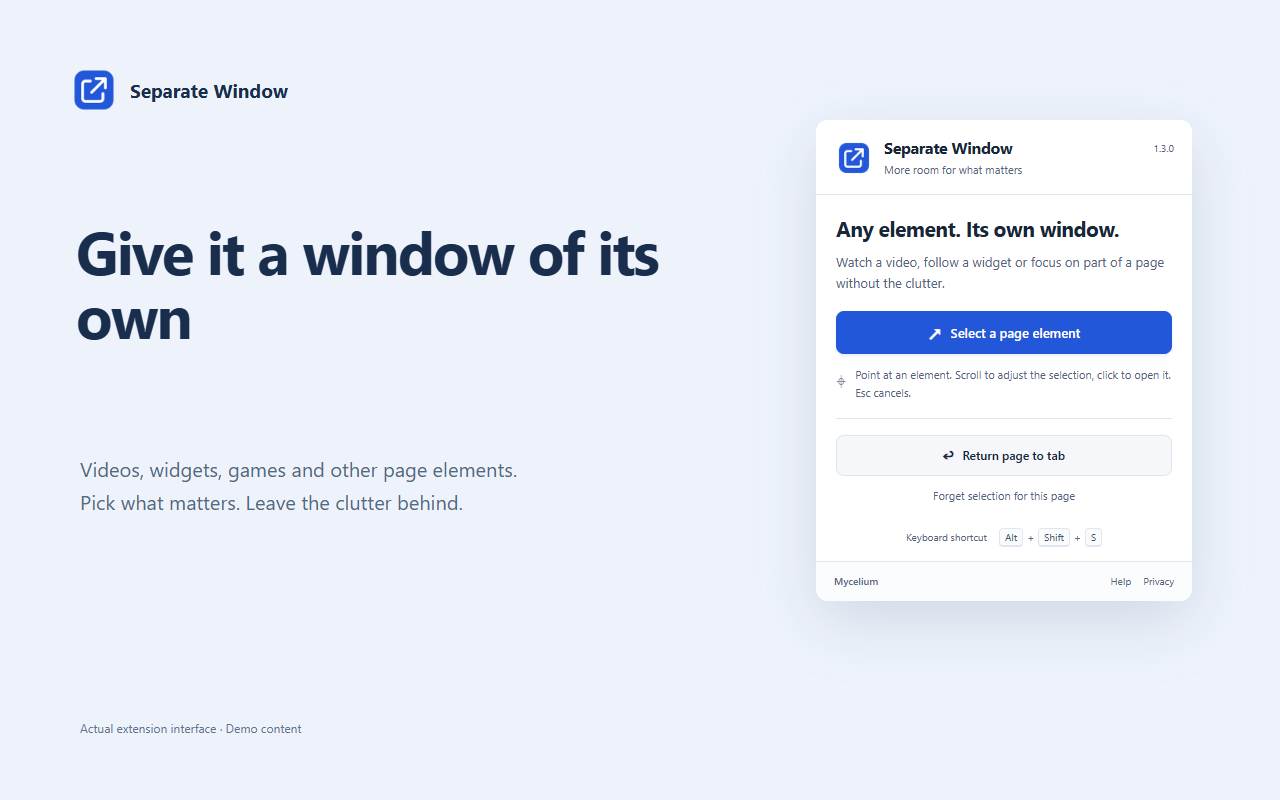
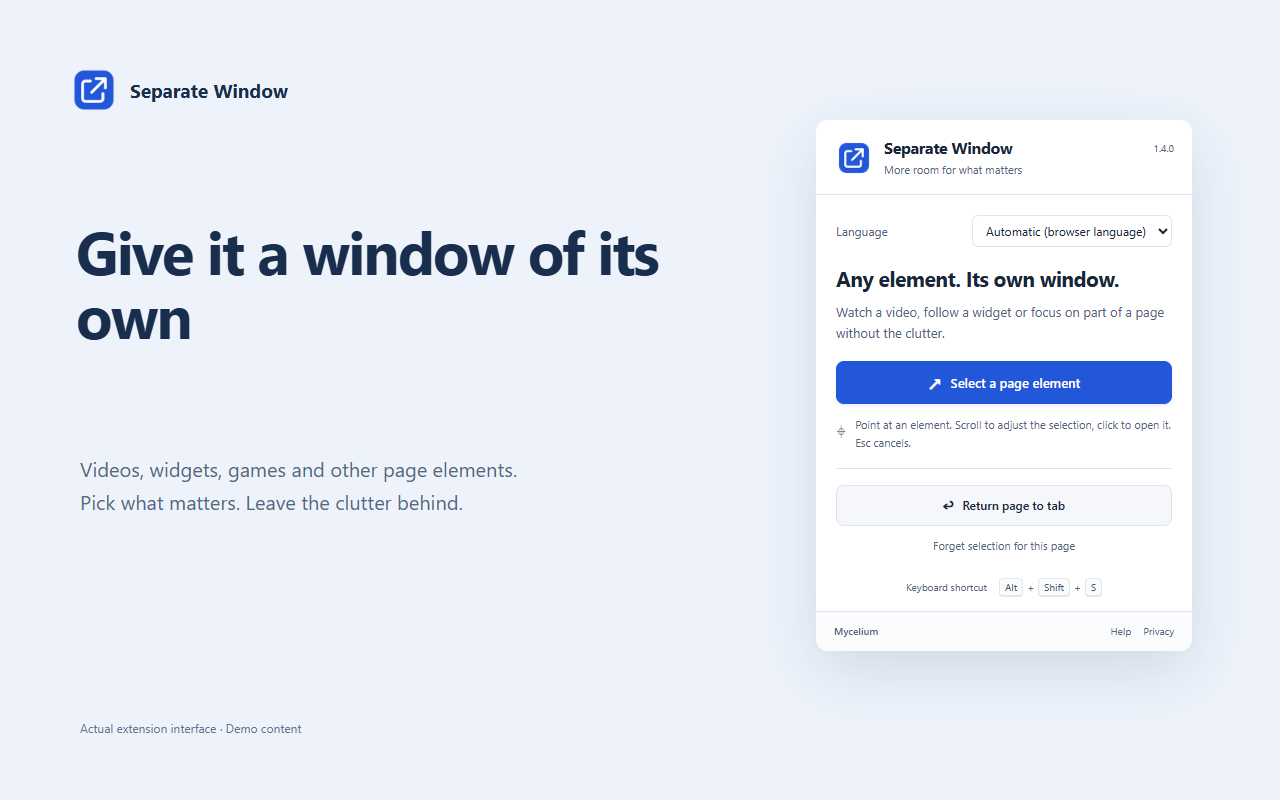
feat: add persistent interface language selection

Changed region(s): [[0.6562, 0.2812, 0.9375, 0.6875], [0.625, 0.7188, 0.9375, 0.8125]]

diff --git a/docs/privacy.html b/docs/privacy.html
@@ -3,7 +3,7 @@
 <head><meta charset="utf-8"><meta name="viewport" content="width=device-width,initial-scale=1"><title>Separate Window — Privacy policy</title><link rel="icon" href="favicon.ico"><style>
 :root{color-scheme:light}*{box-sizing:border-box}body{margin:0;background:#f3f6fb;color:#24354c;font:16px/1.7 "Segoe UI",system-ui,sans-serif}main{max-width:880px;margin:auto;padding:48px 24px 80px}header{display:flex;gap:14px;align-items:center}header img{width:56px;height:56px}h1{margin:0;font-size:30px;line-height:1.2}h2{font-size:21px;line-height:1.3;margin:28px 0 10px}h3{font-size:17px;margin:24px 0 8px}nav{display:flex;gap:20px;margin:28px 0}a{color:#2357d9}article{padding:12px 28px 28px;background:white;border:1px solid #dde5f0;border-radius:12px;margin-bottom:28px}.meta{font-size:14px;color:#63758f}p{margin:10px 0}a:focus-visible{outline:3px solid #8fafff;outline-offset:3px}@media(max-width:600px){main{padding:24px 16px}article{padding:8px 20px 24px}h1{font-size:25px}}
 </style></head>
-<body><main><header><img src="store/assets/icon128.png" alt=""><h1>Separate Window</h1></header><p class="meta">Политика конфиденциальности / Privacy policy · 26 October 2026 · Version 1.3.2</p><nav aria-label="Language"><a href="#ru">Русский</a><a href="#en">English</a></nav>
+<body><main><header><img src="store/assets/icon128.png" alt=""><h1>Separate Window</h1></header><p class="meta">Политика конфиденциальности / Privacy policy · 26 October 2026 · Version 1.4.0</p><nav aria-label="Language"><a href="#ru">Русский</a><a href="#en">English</a></nav>
 <article id="ru" lang="ru">
 <h2>Политика конфиденциальности</h2>
 <p>Издатель расширения — <strong>Mycelium</strong>. Поддержка и вопросы о данных: <a href="mailto:qobuz43@gmail.com">qobuz43@gmail.com</a>. Эта политика относится к расширению Separate Window.</p>
@@ -20,6 +20,7 @@
 <p>Команда «Забыть выбор для этой страницы» удаляет сохранённый селектор и размеры для текущего адреса. Удаление расширения удаляет его браузерное хранилище. Временное состояние переноса очищается после возврата или восстановления вкладки и при завершении браузерной сессии. Сохранённые PNG и созданные закладки остаются под управлением пользователя и удаляются отдельно.</p>
 <p>Ссылка на блок содержит адрес исходной страницы и CSS-селектор. Делитесь такой ссылкой только если можно делиться исходным адресом страницы.</p>
 <p>По кнопке «Поверх всех» расширение находит готовое видео в выбранном блоке, в том числе во вложенных плеерах, и включает встроенный режим Chrome «картинка в картинке». Путь к фрейму, размеры видео и доступность воспроизведения обрабатываются только в памяти. Видеопоток не записывается и не передаётся расширению или разработчику.</p>
+<p>Выбранный язык интерфейса сохраняется локально в браузере и не передаётся разработчику.</p>
 <h3>Использование разрешений</h3>
 <p>Доступ к сайтам нужен для выбора и изоляции элементов, повторного открытия сохранённого блока и снимков. Доступ к вкладкам нужен для переноса, определения последнего адреса и восстановления страницы. Хранилище сохраняет перечисленные настройки. Scripting подключает только упакованный код к уже открытым страницам. Контекстное меню запускает выбор. Доступ к закладкам используется для поиска или создания папки «Separate windows» и добавления записи по команде пользователя.</p>
 <h3>Изменения и контакт</h3>
@@ -41,6 +42,7 @@
 <p>“Forget selection for this page” removes the saved selector and geometry for the current URL. Uninstalling the extension removes its browser storage. Temporary transfer state is cleared after returning or recovering the tab and at the end of the browser session. Saved PNG files and created bookmarks remain under the user's control and are deleted separately.</p>
 <p>An element link includes the source page URL and its CSS selector. Share it only when it is appropriate to share that page URL.</p>
 <p>On an explicit “Always on top” click, the extension finds a ready video within the selected element, including nested players, and toggles Chrome's built-in picture-in-picture mode. Frame paths, video dimensions and playback availability are processed only in memory. The video stream is not recorded or transferred to the extension or developer.</p>
+<p>Your interface language preference is stored locally in the browser and is not sent to the developer.</p>
 <h3>Permissions</h3>
 <p>Website access enables selection, isolation, saved-element reopening and screenshots. Tab access enables moving tabs, tracking the latest URL and recovering the page. Storage holds the settings described above. Scripting injects packaged code into existing pages. The context menu starts selection. Bookmark access finds or creates the “Separate windows” folder and adds a bookmark at the user's request.</p>
 <h3>Changes and contact</h3>

diff --git a/i18n.js b/i18n.js
@@ -1,0 +1,47 @@
+globalThis.SWI18n ??= (() => {
+  let messages = {}, language, preference = 'auto', pending, generation = 0;
+  const listeners = new Set(), dictionaries = new Map();
+  const content = typeof location !== 'undefined' && location.protocol !== 'chrome-extension:';
+  function t(key, substitutions) {
+    const values = Array.isArray(substitutions) ? substitutions : [substitutions ?? ''];
+    return (messages[key]?.message ?? chrome.i18n.getMessage(key)).replace(/\$(\d+)/g, (_, n) => values[Number(n)-1] ?? '');
+  }
+  async function load(request) {
+    let next;
+    if (content) {
+      const response = await chrome.runtime.sendMessage({type:'translations'});
+      if (!response?.ok) throw new Error(response?.error || chrome.i18n.getMessage('unavailable'));
+      next = response;
+    } else {
+      const saved = (await chrome.storage.local.get('language')).language;
+      const pref = ['ru','en'].includes(saved) ? saved : 'auto';
+      const lang = pref === 'auto' ? (chrome.i18n.getUILanguage().startsWith('ru') ? 'ru' : 'en') : pref;
+      if (!dictionaries.has(lang)) dictionaries.set(lang, fetch(chrome.runtime.getURL(`_locales/${lang}/messages.json`)).then(response => {
+        if (!response.ok) throw new Error('Unable to load translations');
+        return response.json();
+      }));
+      next = {language:lang, preference:pref, messages:await dictionaries.get(lang)};
+    }
+    if (request !== generation) return pending;
+    const old = messages, changed = language !== next.language || preference !== next.preference;
+    messages = next.messages; language = next.language; preference = next.preference;
+    if (changed) for (const listener of listeners) listener(old);
+  }
+  function reload() {return pending = load(++generation);}
+  function translate(text, old) {
+    for (const [key, value] of Object.entries(old)) {
+      if (text === value.message) return t(key);
+      if (value.message.includes('$1')) {
+        const [before, after] = value.message.split('$1');
+        if (text.startsWith(before) && text.endsWith(after)) return t(key, text.slice(before.length, after ? -after.length : undefined));
+      }
+    }
+    return text;
+  }
+  chrome.storage.onChanged.addListener((changes, area) => {
+    if (area === 'local' && changes.language) reload().catch(console.error);
+  });
+  reload().catch(console.error);
+  return {t, translate, reload, onChange:listener => listeners.add(listener), get ready(){return pending;},
+    get language(){return language;}, get preference(){return preference;}, get messages(){return messages;}};
+})();

diff --git a/content.js b/content.js
@@ -1,7 +1,19 @@
 (() => {
-  const t = (key, substitutions) => chrome.i18n.getMessage(key, substitutions);
+  const t = (key, substitutions) => SWI18n.t(key, substitutions);
   if (globalThis.__separateWindowLocal) return;
   globalThis.__separateWindowLocal = true;
+  const roots = new Set();
+  SWI18n.onChange(old => {
+    for (const root of roots) {
+      if (!root.host.isConnected) {roots.delete(root); continue;}
+      root.host.lang = SWI18n.language;
+      const walker = document.createTreeWalker(root, NodeFilter.SHOW_TEXT);
+      for (let node; (node = walker.nextNode());) node.textContent = SWI18n.translate(node.textContent, old);
+      for (const element of root.querySelectorAll('*')) for (const attr of ['title','aria-label','placeholder']) {
+        if (element.hasAttribute(attr)) element.setAttribute(attr, SWI18n.translate(element.getAttribute(attr), old));
+      }
+    }
+  });
   const token = `sw-${crypto.randomUUID().replaceAll('-', '')}`;
   const targetAttr = `data-${token}-target`;
   const ancestorAttr = `data-${token}-ancestor`;
@@ -20,6 +32,8 @@
     host.setAttribute(`data-${token}-ui`, '');
     host.style.cssText = 'all:initial!important;position:fixed!important;inset:0!important;z-index:2147483647!important;pointer-events:none!important;visibility:visible!important;display:block!important;';
     const root = host.attachShadow({mode: 'closed'});
+    for (const existing of roots) if (!existing.host.isConnected) roots.delete(existing);
+    host.lang = SWI18n.language; roots.add(root);
     const style = document.createElement('style');
     style.textContent = `
       :host{color-scheme:dark}*{box-sizing:border-box}button,input{font:13px system-ui,sans-serif}
@@ -317,7 +331,7 @@
     if (sender.id !== chrome.runtime.id) return;
     switch (message.type) {
       case 'select':
-        Promise.resolve(startPicker()).then(() => respond({ok: true}), error => respond({ok: false, error: error.message}));
+        SWI18n.ready.then(startPicker).then(() => respond({ok: true}), error => respond({ok: false, error: error.message}));
         return true;
       case 'uncrop': unCrop(false); break;
       case 'pip-state': setPinState(message.active); break;
@@ -363,5 +377,5 @@
   window.addEventListener('hashchange', () => {
     if (!selected && location.hash.startsWith('#__sw_local=')) init().catch(error => notify(error.message));
   });
-  init().catch(error => notify(error.message));
+  SWI18n.ready.then(init).catch(error => notify(error.message));
 })();

diff --git a/background.js b/background.js
@@ -1,5 +1,5 @@
-importScripts('media.js');
-const t = (key, substitutions) => chrome.i18n.getMessage(key, substitutions);
+importScripts('i18n.js', 'media.js');
+const t = (key, substitutions) => SWI18n.t(key, substitutions);
 const sessionKey = id => `window:${id}`;
 const selectionKey = url => `selection:${url}`;
 const supported = url => /^(https?|file):/.test(url || '');
@@ -9,7 +9,7 @@ async function tell(tabId, type) {
   catch {
     const tab = await chrome.tabs.get(tabId);
     if (!supported(tab.url)) throw new Error(t('restrictedPage'));
-    await chrome.scripting.executeScript({target: {tabId}, files: ['content.js']});
+    await chrome.scripting.executeScript({target: {tabId}, files: ['i18n.js', 'content.js']});
     return chrome.tabs.sendMessage(tabId, {type});
   }
 }
@@ -186,17 +186,21 @@ async function handle(message, sender) {
 }
 
 chrome.runtime.onMessage.addListener((message, sender, respond) => {
-  handle(message, sender).then(result => respond({ok: true, ...result}), error => respond({ok: false, error: error.message}));
+  const task = message.type === 'translations' ? SWI18n.reload().then(() => ({language:SWI18n.language, preference:SWI18n.preference, messages:SWI18n.messages})) : SWI18n.ready.then(() => handle(message, sender));
+  task.then(result => respond({ok: true, ...result}), error => respond({ok: false, error: error.message}));
   return true;
 });
-chrome.runtime.onInstalled.addListener(() => {
+chrome.runtime.onInstalled.addListener(async () => {
+  await SWI18n.ready;
   chrome.contextMenus.removeAll(() => chrome.contextMenus.create({id: 'select', title: t('contextMenu'), contexts: ['all'], documentUrlPatterns: ['http://*/*', 'https://*/*', 'file:///*']}));
 });
 chrome.contextMenus.onClicked.addListener((info, tab) => {
   if (info.menuItemId === 'select') tell(tab.id, 'select').catch(console.error);
 });
+SWI18n.onChange(() => chrome.contextMenus.update('select', {title:t('contextMenu')}).catch(() => {}));
 chrome.commands.onCommand.addListener(async command => {
   if (command !== 'select') return;
+  await SWI18n.ready;
   const [tab] = await chrome.tabs.query({active: true, lastFocusedWindow: true});
   if (tab) handle({type: 'select', tabId: tab.id}, {url: chrome.runtime.getURL('popup.html')}).catch(console.error);
 });

diff --git a/popup.js b/popup.js
@@ -1,15 +1,30 @@
-document.documentElement.lang = chrome.i18n.getUILanguage().startsWith('ru') ? 'ru' : 'en';
-for (const element of document.querySelectorAll('[data-i18n]')) element.textContent = chrome.i18n.getMessage(element.dataset.i18n);
-for (const element of document.querySelectorAll('[data-i18n-label]')) element.setAttribute('aria-label', chrome.i18n.getMessage(element.dataset.i18nLabel));
-document.querySelector('#version').textContent = chrome.runtime.getManifest().version;
+function render() {
+  document.documentElement.lang = SWI18n.language;
+  for (const element of document.querySelectorAll('[data-i18n]')) element.textContent = SWI18n.t(element.dataset.i18n);
+  for (const element of document.querySelectorAll('[data-i18n-label]')) element.setAttribute('aria-label', SWI18n.t(element.dataset.i18nLabel));
+  document.querySelector('#language').value = SWI18n.preference;
+  document.querySelector('#version').textContent = chrome.runtime.getManifest().version;
+}
+SWI18n.onChange(old => {
+  render(); const status = document.querySelector('#status'); status.textContent = SWI18n.translate(status.textContent, old);
+});
+SWI18n.ready.then(render);
+document.querySelector('#language').addEventListener('change', async event => {
+  const select = event.target; select.disabled = true;
+  try {await chrome.storage.local.set({language:select.value}); await SWI18n.reload(); render();}
+  catch (error) {document.querySelector('#status').textContent = error.message;}
+  finally {select.disabled = false;}
+});
 
 for (const button of document.querySelectorAll('button')) {
   button.addEventListener('click', async () => {
     button.disabled = true;
     try {
+      await SWI18n.ready;
       const [tab] = await chrome.tabs.query({active: true, currentWindow: true});
+      if (!tab) throw new Error(SWI18n.t('noActiveTab'));
       const result = await chrome.runtime.sendMessage({type: button.id, tabId: tab.id});
-      if (!result?.ok) throw new Error(result?.error || chrome.i18n.getMessage('commandFailed'));
+      if (!result?.ok) throw new Error(result?.error || SWI18n.t('commandFailed'));
       window.close();
     } catch (error) {
       document.querySelector('#status').textContent = error.message;

diff --git a/popup.html b/popup.html
@@ -14,6 +14,7 @@
     <span class="version" id="version"></span>
   </header>
   <main>
+    <div class="language"><label for="language" data-i18n="languageLabel">Язык</label><select id="language"><option value="auto" data-i18n="languageAuto">Автоматически</option><option value="ru">Русский</option><option value="en">English</option></select></div>
     <section class="selection" aria-labelledby="selection-title">
       <h2 id="selection-title" data-i18n="popupHeading">Любой блок — отдельное окно</h2>
       <p data-i18n="popupIntro">Смотрите видео, следите за виджетом или работайте с частью страницы без лишнего вокруг.</p>
@@ -28,6 +29,6 @@
     <div class="shortcut"><span data-i18n="quickAccess">Быстрый вызов</span><kbd>Alt</kbd><span>+</span><kbd>Shift</kbd><span>+</span><kbd>S</kbd></div>
   </main>
   <footer><span>Mycelium</span><nav><a href="https://github.com/MerlinRus/SeparateWindow#readme" target="_blank" rel="noopener noreferrer" data-i18n="helpLink">Помощь</a><a href="https://merlinrus.github.io/SeparateWindow/privacy.html" target="_blank" rel="noopener noreferrer" data-i18n="privacyLink">Конфиденциальность</a></nav></footer>
-  <script src="popup.js"></script>
+  <script src="i18n.js"></script><script src="popup.js"></script>
 </body>
 </html>

diff --git a/popup.css b/popup.css
@@ -12,3 +12,5 @@ button{display:flex;align-items:center;justify-content:center;gap:9px;width:100%
 button:focus-visible,a:focus-visible{outline:3px solid #8fafff;outline-offset:3px}button:disabled{opacity:.55;cursor:wait}#status:empty{display:none}#status{color:var(--danger);background:#fff0ee;border-radius:6px;padding:10px;margin-top:12px;font-size:12px}
 .shortcut{display:flex;align-items:center;justify-content:center;gap:4px;color:var(--muted);font-size:10px;margin-top:20px}.shortcut>span:first-child{margin-right:8px}kbd{border:1px solid var(--line);border-bottom-width:2px;border-radius:4px;padding:1px 5px;font:10px "Segoe UI",system-ui;background:#fafbfd;color:#41546d}
 footer{display:flex;align-items:center;justify-content:space-between;padding:12px 18px;border-top:1px solid var(--line);font-size:10px;color:var(--muted);background:#fbfcfe}footer>span{font-weight:600}nav{display:flex;gap:12px}a{color:var(--muted);text-decoration:none}a:hover{color:var(--accent);text-decoration:underline}
+
+.language{display:flex;align-items:center;justify-content:space-between;gap:12px;margin:0 0 18px;color:var(--muted);font-size:12px}.language select{max-width:230px;padding:6px 9px;border:1px solid var(--line);border-radius:6px;background:var(--bg);color:var(--ink);font:inherit}.language select:focus-visible{outline:3px solid #8fafff;outline-offset:3px}

diff --git a/tests/languages.py b/tests/languages.py
@@ -1,0 +1,82 @@
+"""Manual language overrides across popup, existing page UI and worker errors."""
+import json
+import tempfile
+import threading
+from http.server import ThreadingHTTPServer
+from playwright.sync_api import sync_playwright
+from smoke import Handler, ROOT
+
+
+def main():
+    dictionaries = {lang:json.loads((ROOT/f'_locales/{lang}/messages.json').read_text(encoding='utf-8')) for lang in ('ru','en')}
+    server = ThreadingHTTPServer(('127.0.0.1',0), Handler)
+    threading.Thread(target=server.serve_forever,daemon=True).start()
+    try:
+        with tempfile.TemporaryDirectory(prefix='sw-languages-') as profile, sync_playwright() as p:
+            context = p.chromium.launch_persistent_context(profile,channel='chromium',headless=True,
+                args=['--lang=en',f'--disable-extensions-except={ROOT}',f'--load-extension={ROOT}'])
+            try:
+                worker = context.service_workers[0] if context.service_workers else context.wait_for_event('serviceworker')
+                worker.evaluate('''async () => {
+                  await SWI18n.ready;
+                  const update=chrome.contextMenus.update.bind(chrome.contextMenus);
+                  chrome.contextMenus.update=async (id,options)=>{await update(id,options);globalThis.menuTitle=options.title;};
+                }''')
+                popup_url = f'chrome-extension://{worker.url.split("/")[2]}/popup.html'
+                popup = context.new_page(); popup.goto(popup_url)
+                popup.locator('#version').wait_for()
+                assert popup.locator('#language').input_value() == 'auto'
+                browser_language = popup.locator('html').get_attribute('lang')
+                def switch(lang):
+                    popup.locator('#language').select_option(lang)
+                    expected = browser_language if lang=='auto' else lang
+                    popup.wait_for_function('(lang)=>document.documentElement.lang===lang',arg=expected)
+                    popup.wait_for_function('!document.querySelector("#language").disabled')
+                    assert popup.locator('#select').inner_text().strip().endswith(dictionaries[expected]['selectButton']['message'])
+                    assert popup.locator('body').evaluate('(e)=>e.scrollWidth<=innerWidth')
+                    worker.evaluate('''async title=>{for(let i=0;i<40;i++){if(globalThis.menuTitle===title)return;await new Promise(r=>setTimeout(r,50));}throw new Error('Context menu not translated');}''', dictionaries[expected]['contextMenu']['message'])
+                page = context.pages[0]
+                url = f'http://127.0.0.1:{server.server_port}/'
+                page.goto(url)
+                identity=page.evaluate('window.identity')
+                worker.evaluate('''async url=>{const [tab]=await chrome.tabs.query({url});await tell(tab.id,'select');}''',url)
+                cdp=context.new_cdp_session(page)
+                def labels():
+                    tree=cdp.send('DOM.getDocument',{'depth':-1,'pierce':True})
+                    def walk(node):
+                        attrs=node.get('attributes',[]); pairs=dict(zip(attrs[::2],attrs[1::2]))
+                        result=[pairs['aria-label']] if 'aria-label' in pairs else []
+                        result += [node['nodeValue']] if node.get('nodeType')==3 else []
+                        for child in node.get('children',[])+node.get('shadowRoots',[]):result+=walk(child)
+                        return result
+                    return walk(tree['root'])
+                switch('ru')
+                assert dictionaries['ru']['pickerHint']['message'] in labels()
+                assert dictionaries['en']['pickerHint']['message'] not in labels()
+                switch('en')
+                assert dictionaries['en']['pickerHint']['message'] in labels()
+                box=page.locator('#widget').bounding_box();page.mouse.click(box['x']+10,box['y']+10)
+                page.wait_for_function('document.querySelector("header").getBoundingClientRect().height===0')
+                switch('ru')
+                assert dictionaries['ru']['returnTitle']['message'] in labels()
+                assert dictionaries['en']['returnTitle']['message'] not in labels()
+                assert page.evaluate('window.identity')==identity
+                popup.reload();popup.locator('#version').wait_for()
+                assert popup.locator('#language').input_value()=='ru'
+                result=popup.evaluate('''async () => {
+                  const [tab]=await chrome.tabs.query({url:'http://127.0.0.1/*'});
+                  return chrome.runtime.sendMessage({type:'bad-command',tabId:tab.id});
+                }''')
+                assert result['error']==dictionaries['ru']['unknownCommand']['message']
+                switch('en')
+                assert dictionaries['en']['returnTitle']['message'] in labels()
+                switch('auto')
+                assert popup.locator('html').get_attribute('lang')==browser_language
+                worker.evaluate('''async url=>{const [tab]=await chrome.tabs.query({url});await restore(tab.id);}''',url)
+                assert page.evaluate('window.identity')==identity
+                print('PASS: manual RU/EN, browser fallback, persisted selection, live picker/toolbar, context menu, worker errors, no reload')
+            finally:context.close()
+    finally:server.shutdown()
+
+
+if __name__=='__main__':main()

diff --git a/tools/package.py b/tools/package.py
@@ -8,7 +8,7 @@ manifest = json.loads((ROOT / 'manifest.json').read_text(encoding='utf-8'))
 destination = ROOT / 'dist'
 destination.mkdir(exist_ok=True)
 package = destination / f'separate-window-{manifest["version"]}.zip'
-files = [ROOT / name for name in ('manifest.json','background.js','content.js','media.js','popup.html','popup.css','popup.js')]
+files = [ROOT / name for name in ('manifest.json','background.js','content.js','media.js','i18n.js','popup.html','popup.css','popup.js')]
 files += [ROOT / path for path in sorted(set(manifest['icons'].values()))]
 files += sorted((ROOT / '_locales').glob('*/messages.json'))
 with zipfile.ZipFile(package, 'w', zipfile.ZIP_DEFLATED) as archive:

diff --git a/docs/store/README.md b/docs/store/README.md
@@ -1,11 +1,11 @@
-# Публикация Separate Window 1.3.2
+# Публикация Separate Window 1.4.0
 
 Издатель: **Mycelium**. Поддержка: **qobuz43@gmail.com**.
 Подготовлено по тому же принципу, что Mycelium Autofill: чистый ZIP расширения и отдельный комплект материалов RU/EN.
 
 ## Что загружать
 
-1. **Пакет расширения:** `dist/separate-window-1.3.2.zip`. В корне лежит manifest.json; тестов, документации и исходных SVG в пакете нет.
+1. **Пакет расширения:** `dist/separate-window-1.4.0.zip`. В корне лежит manifest.json; тестов, документации и исходных SVG в пакете нет.
 2. **Иконка карточки:** `assets/icon128.png` — PNG 128×128, прозрачный отступ 16 px, знак 96×96.
 3. **Скриншоты:** `assets/screenshot-01-select-ru.png`, `screenshot-02-window-ru.png`, `screenshot-03-app-ru.png`. Для английской локали — соответствующие `-en.png`. Все 1280×800, PNG RGB. Это работающий интерфейс на собственных демо-данных; третий кадр оформляет настоящий снимок popup как презентацию приложения.
 4. **Малое промо:** `assets/promo-440x280.png`. Дополнительное большое промо: `assets/promo-1400x560.png`.
@@ -13,12 +13,12 @@
 6. **Privacy practices:** `privacy-fields.md`; инструкции проверки — `reviewer-instructions.md`.
 7. **Privacy policy URL:** https://merlinrus.github.io/SeparateWindow/privacy.html
 
-Комплект `dist/chrome-web-store-materials-1.3.2.zip` содержит изображения и тексты. **Его не нужно загружать как пакет расширения.**
+Комплект `dist/chrome-web-store-materials-1.4.0.zip` содержит изображения и тексты. **Его не нужно загружать как пакет расширения.**
 
 ## В кабинете Chrome Web Store
 
 1. В аккаунте издателя Mycelium откройте существующую карточку Separate Window с ID `fhcafcdfknddjfgbbkhpglgamceiclcm`. ZIP Separate Window нельзя загружать обновлением Mycelium Autofill.
-2. Загрузите `separate-window-1.3.2.zip`.
+2. Загрузите `separate-window-1.4.0.zip`.
 3. Укажите название Separate Window, категорию Productivity, язык RU, описания и поддержку qobuz43@gmail.com. Добавьте EN-локаль и её изображения/описание.
 4. Загрузите иконку, три скриншота и промо. Укажите публичную политику и заполните поля по privacy-fields.md.
 5. Вставьте reviewer-instructions.md. Доступы и тестовый аккаунт не требуются.
@@ -33,7 +33,7 @@
 
 В поле полного описания вставьте всё содержимое `listing-description-en.txt`. В локализованные скриншоты английского языка добавьте `assets/screenshot-01-select-en.png`, `assets/screenshot-02-window-en.png`, `assets/screenshot-03-app-en.png`. Сохраните изменения английской локали вместе с обновлением текущего продукта.
 
-Короткий текст обновления находится в `release-notes-ru.txt` и `release-notes-en.txt`. Английский текст можно добавить в конец полного английского описания под строкой “What's new in 1.3.2”.
+Короткий текст обновления находится в `release-notes-ru.txt` и `release-notes-en.txt`. Английский текст можно добавить в конец полного английского описания под строкой “What's new in 1.4.0”.
 
 Официальная инструкция: https://developer.chrome.com/docs/webstore/cws-dashboard-listing#localize_your_listing
 

diff --git a/README.md b/README.md
@@ -4,7 +4,7 @@
 
 ![Separate Window](icons/icon128.png)
 
-Материалы и инструкция публикации: [docs/store/README.md](docs/store/README.md). Сборка чистого ZIP для Chrome Web Store: `python tools/package.py`; результат — `dist/separate-window-1.3.2.zip`. Отдельный архив с изображениями и текстами — `dist/chrome-web-store-materials-1.3.2.zip`.
+Материалы и инструкция публикации: [docs/store/README.md](docs/store/README.md). Сборка чистого ZIP для Chrome Web Store: `python tools/package.py`; результат — `dist/separate-window-1.4.0.zip`. Отдельный архив с изображениями и текстами — `dist/chrome-web-store-materials-1.4.0.zip`.
 
 Издатель: **Mycelium**. Поддержка: **qobuz43@gmail.com**. [Политика конфиденциальности](https://merlinrus.github.io/SeparateWindow/privacy.html).
 
@@ -20,6 +20,8 @@
 В Edge установка аналогична, страница расширений — `edge://extensions`.
 
 ## Использование
+
+В меню расширения есть настройка **Язык / Language**: русский, English или автоматический выбор по языку браузера. Выбор сохраняется локально и применяется к меню, кнопкам на странице, открытым отдельным окнам, подсказкам, сообщениям и команде контекстного меню. Уже открытое видео не перезагружается. Системные подписи Chrome и язык страницы магазина определяются самим браузером.
 
 Нажмите значок расширения → **Выбрать блок на странице**. Наведите мышь на видео, виджет, игру, изображение, таблицу или другой блок.
 

diff --git a/docs/store/reviewer-instructions.md b/docs/store/reviewer-instructions.md
@@ -1,4 +1,4 @@
-# Reviewer instructions — Separate Window 1.3.2
+# Reviewer instructions — Separate Window 1.4.0
 
 No account, credentials, payment, external application or server is required.
 The publisher is Mycelium; support: qobuz43@gmail.com.
@@ -12,7 +12,9 @@ The publisher is Mycelium; support: qobuz43@gmail.com.
 7. A cross-origin iframe is selected as a whole. Selection intercepts pointer events instead of toggling the player's play/pause controls.
 8. Start a video and use “Always on top” in the hover toolbar. Chrome displays that video in a separate picture-in-picture window without reloading the source player, including nested cross-origin frames. Press “Return video” or close PiP to return it. Site controls/subtitles may not appear, and some players prohibit PiP. Images and arbitrary widgets do not support this mode. No external component or additional permission is required.
 
-The store screenshots use an original canvas-generated demonstration video, captured from the real extension UI. They contain no third-party movie footage, personal data or service credentials. Russian and English are selected automatically from the browser UI language.
+9. Change Language in the extension menu to Русский, English or Automatic. Verify that the popup, existing picker/toolbar, tooltips, messages and context menu update without reloading the page, and the preference survives reopening the menu.
+
+The store screenshots use an original canvas-generated demonstration video, captured from the real extension UI. They contain no third-party movie footage, personal data or service credentials. Russian and English follow the browser language by default and can be selected manually in the extension menu.
 
 Source and reproducible automation: https://github.com/MerlinRus/SeparateWindow
 Run `python tests/smoke.py` for the isolated Chromium test. Run `python tools/store_assets.py` to reproduce the listing images. Build with `python tools/package.py`.
